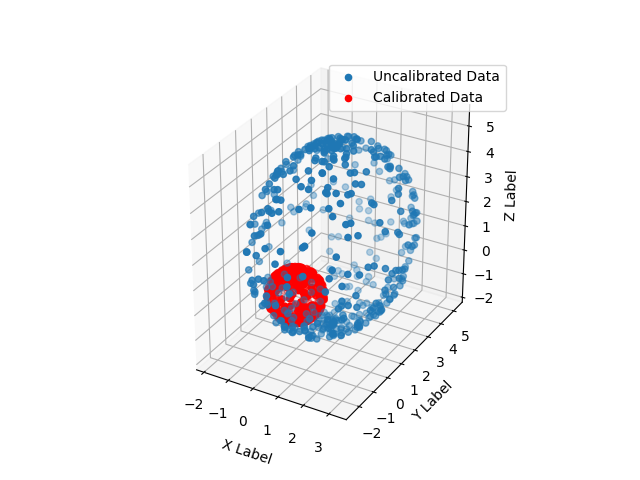
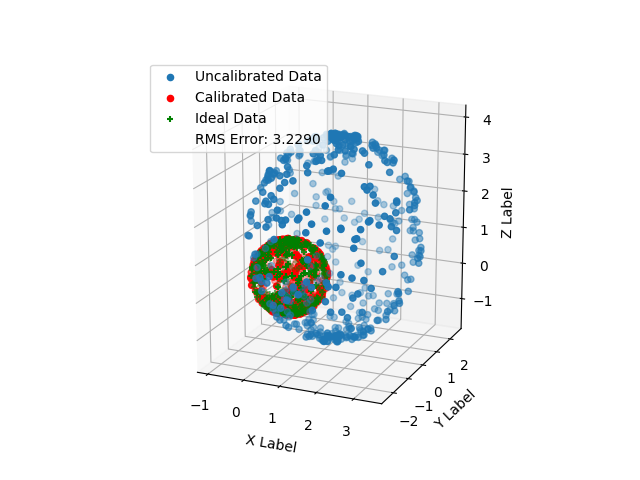
Calibrated Data points Created and incorporated

diff --git a/mag_cal.py b/mag_cal.py
@@ -2,7 +2,7 @@ import typing
 
 import matplotlib.pyplot as plt
 import numpy as np
-import scipy.optimize as opt
+from scipy.optimize import minimize 
 
 def generate_uncalibrated_data() -> np.ndarray:
     
@@ -32,27 +32,66 @@ def generate_uncalibrated_data() -> np.ndarray:
 
     return points, biased_data
 
-def three_dim_scatter(cal_points:np.ndarray, uncal_points:np.ndarray) -> None:
+def three_dim_scatter(cal_points:np.ndarray, 
+                      ideal_sphere:np.ndarray,
+                      uncal_points:np.ndarray) -> None:
     
     fig = plt.figure()
     ax = fig.add_subplot(projection='3d')
     Ux, Uy, Uz = uncal_points[:3]
     Cx, Cy, Cz = cal_points[:3]
+    Ix, Iy, Iz = ideal_sphere[:3]
 
-    ax.scatter(Ux, Uy, Uz, marker = 'o', label="Uncalibrated Data") #Uncalibrated data
-    ax.scatter(Cx, Cy, Cz, color = 'red', marker = 'o', label="Calibrated Data") #Calibrated
+    ax.scatter(Ux, Uy, Uz, marker = 'o', 
+               label="Uncalibrated Data") #Uncalibrated data
+    ax.scatter(Cx, Cy, Cz, color = 'red', marker = 'o', 
+               label="Calibrated Data") #Calibrated
+    ax.scatter(Ix, Iy, Iz, color = 'green', marker = '+', 
+               label="Ideal Data") #Ideal
+    
     ax.set_xlabel('X Label')
     ax.set_ylabel('Y Label')
     ax.set_zlabel('Z Label')
     ax.set_aspect("equal")
 
-    ax.legend()
+    error = np.linalg.norm(cal_points - ideal_sphere, axis=1)
+    rms_error = np.sqrt(np.mean(error**2))
+
+    handles, labels = ax.get_legend_handles_labels()
+    handles.append(plt.Line2D([0], [0], color='w', 
+                              label=f'RMS Error: {rms_error:.4f}'))
+    ax.legend(handles=handles, loc='upper left')
+
     plt.show()
 
     return
 
-def unit_circle_fit():
-    return
+def unit_circle_fit(points:np.ndarray) -> np.ndarray:
+
+    def apply_affine_transformation(points, affine_transformation):
+        n_points = points.shape[0]
+        homogenous_points = np.hstack((points, np.ones((n_points, 1))))
+        transformed_points = homogenous_points @ affine_transformation.T
+        return transformed_points[:, :3]
+
+    def loss_function(affine_params, points):
+
+        # Reshape affine parameters to 4x4 matrix
+        affine_transform = affine_params.reshape((4, 4))
+        transformed_points = apply_affine_transformation(points, 
+                                                         affine_transform)
+        
+        distances = np.linalg.norm(transformed_points, axis=1) - 1
+        return np.sum(distances ** 2)
+
+    
+    # Initialize with the identity affine transformation
+    initial_affine_transformation = np.eye(4).flatten()
+    result = minimize(loss_function, initial_affine_transformation, 
+                      args=(points,), method='L-BFGS-B')
+    optimized_affine_transformation = result.x.reshape((4, 4))
+    
+    return optimized_affine_transformation
 
 
 def main() -> None:
@@ -64,7 +103,11 @@ def main() -> None:
     """
 
     unit_sphere, uncalibrated = generate_uncalibrated_data()
-    three_dim_scatter(unit_sphere[:3], uncalibrated[:3],)
+
+    calibrated_transform = unit_circle_fit(np.transpose(uncalibrated[:3]))
+    calibrated = np.matmul(calibrated_transform, uncalibrated)
+
+    three_dim_scatter(calibrated[:3] ,unit_sphere[:3], uncalibrated[:3])
     
 
     return
